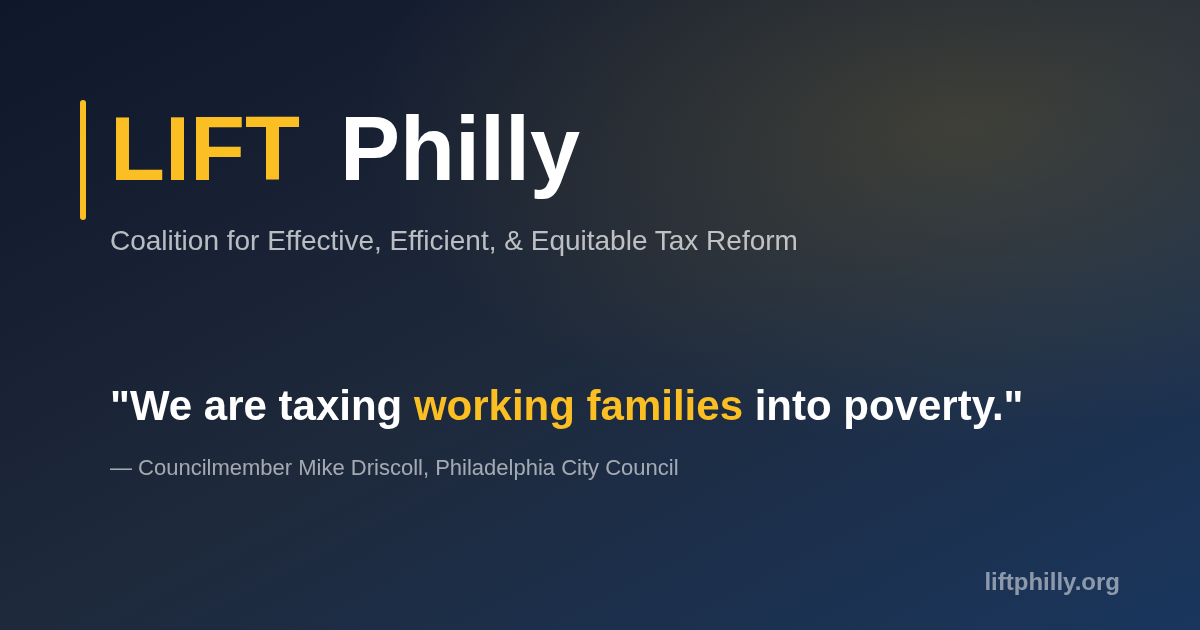
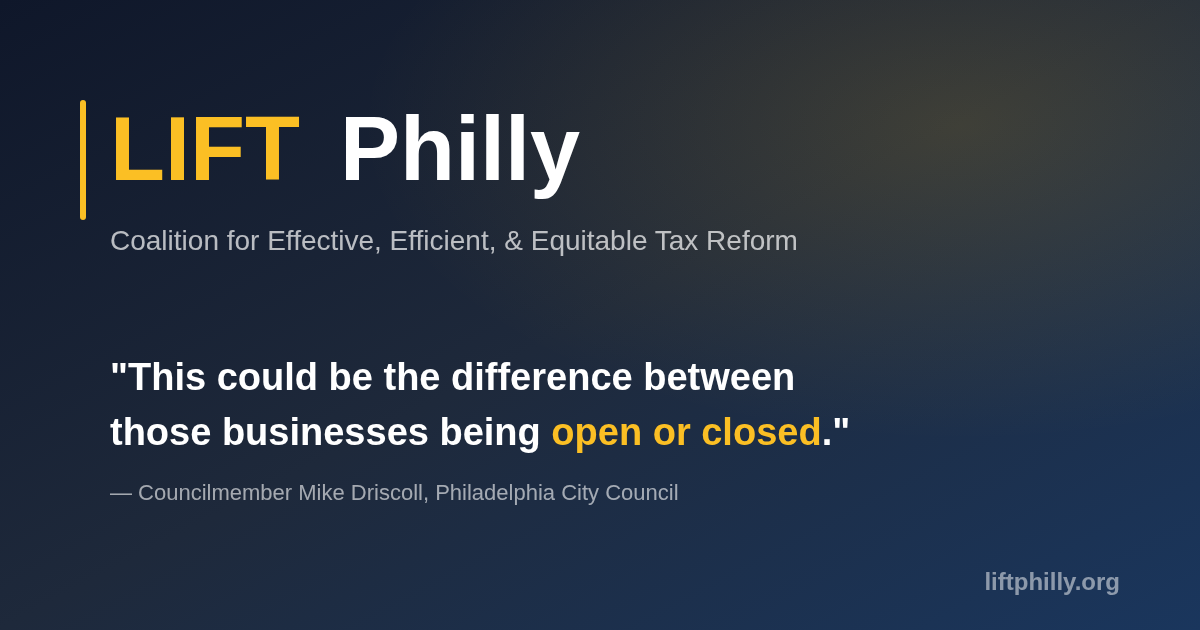
Change OG image quote to "open or closed" Driscoll quote
Updated OG image and meta tags to use the more impactful quote:
"This could be the difference between those businesses being open or closed."

🤖 Generated with [Claude Code](https://claude.com/claude-code)

Changed region(s): [[0.0925, 0.573, 0.8633, 0.8143]]

diff --git a/index.html b/index.html
@@ -12,20 +12,20 @@
     <meta property="og:site_name" content="LIFT Philly">
     <meta property="og:locale" content="en_US">
     <meta property="og:title" content="LIFT Philly - Tax Reform for Philadelphia's Small Businesses">
-    <meta property="og:description" content="&quot;We are taxing working families into poverty.&quot; — Councilmember Mike Driscoll. Join the coalition for effective, efficient, & equitable tax reform.">
+    <meta property="og:description" content="&quot;This could be the difference between those businesses being open or closed.&quot; — Councilmember Mike Driscoll. Join the coalition for effective, efficient, & equitable tax reform.">
     <meta property="og:image" content="https://liftphilly.org/og-image.png">
     <meta property="og:image:type" content="image/png">
     <meta property="og:image:width" content="1200">
     <meta property="og:image:height" content="630">
-    <meta property="og:image:alt" content="LIFT Philly - We are taxing working families into poverty">
+    <meta property="og:image:alt" content="LIFT Philly - This could be the difference between those businesses being open or closed">
 
     <!-- Twitter -->
     <meta name="twitter:card" content="summary_large_image">
     <meta name="twitter:url" content="https://liftphilly.org/">
     <meta name="twitter:title" content="LIFT Philly - Tax Reform for Philadelphia's Small Businesses">
-    <meta name="twitter:description" content="&quot;We are taxing working families into poverty.&quot; — Councilmember Mike Driscoll. Join the coalition for effective, efficient, & equitable tax reform.">
+    <meta name="twitter:description" content="&quot;This could be the difference between those businesses being open or closed.&quot; — Councilmember Mike Driscoll. Join the coalition for effective, efficient, & equitable tax reform.">
     <meta name="twitter:image" content="https://liftphilly.org/og-image.png">
-    <meta name="twitter:image:alt" content="LIFT Philly - We are taxing working families into poverty">
+    <meta name="twitter:image:alt" content="LIFT Philly - This could be the difference between those businesses being open or closed">
 
     <link rel="preconnect" href="https://fonts.googleapis.com">
     <link rel="preconnect" href="https://fonts.gstatic.com" crossorigin>
